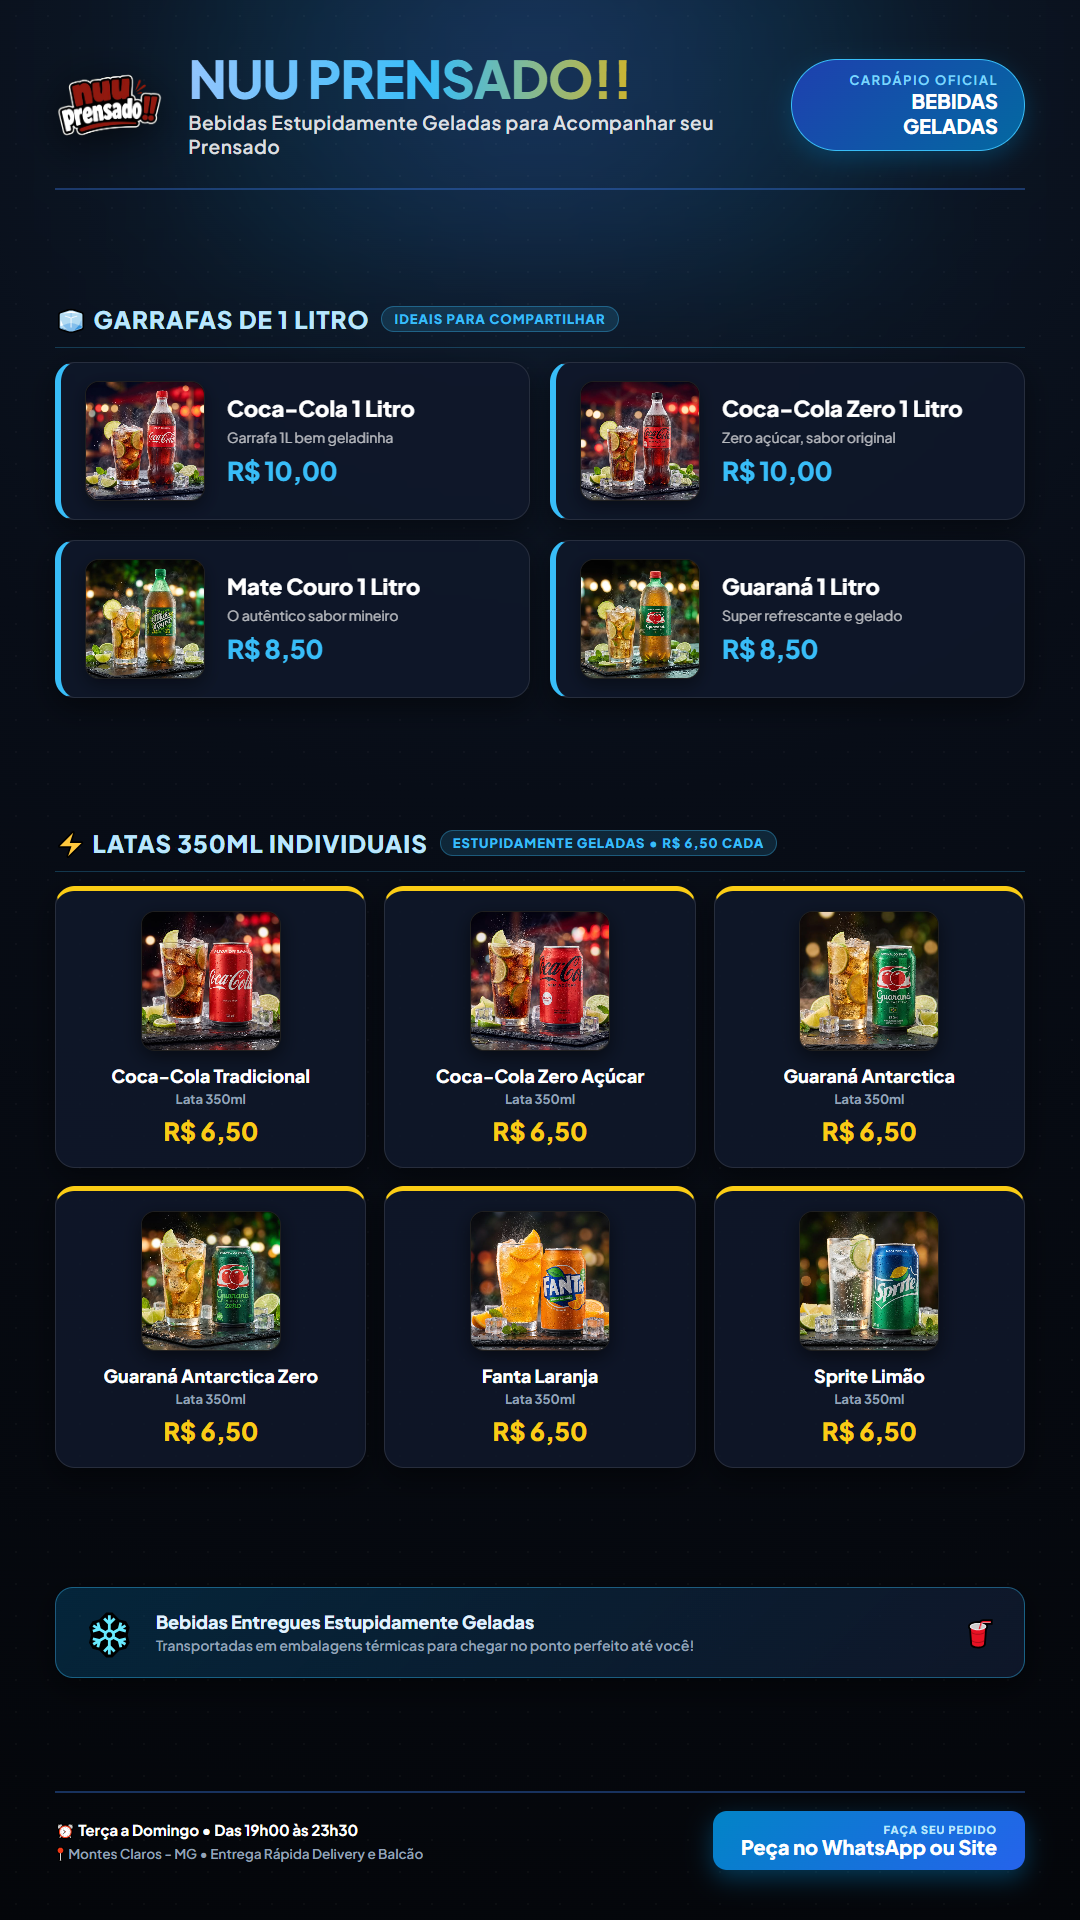
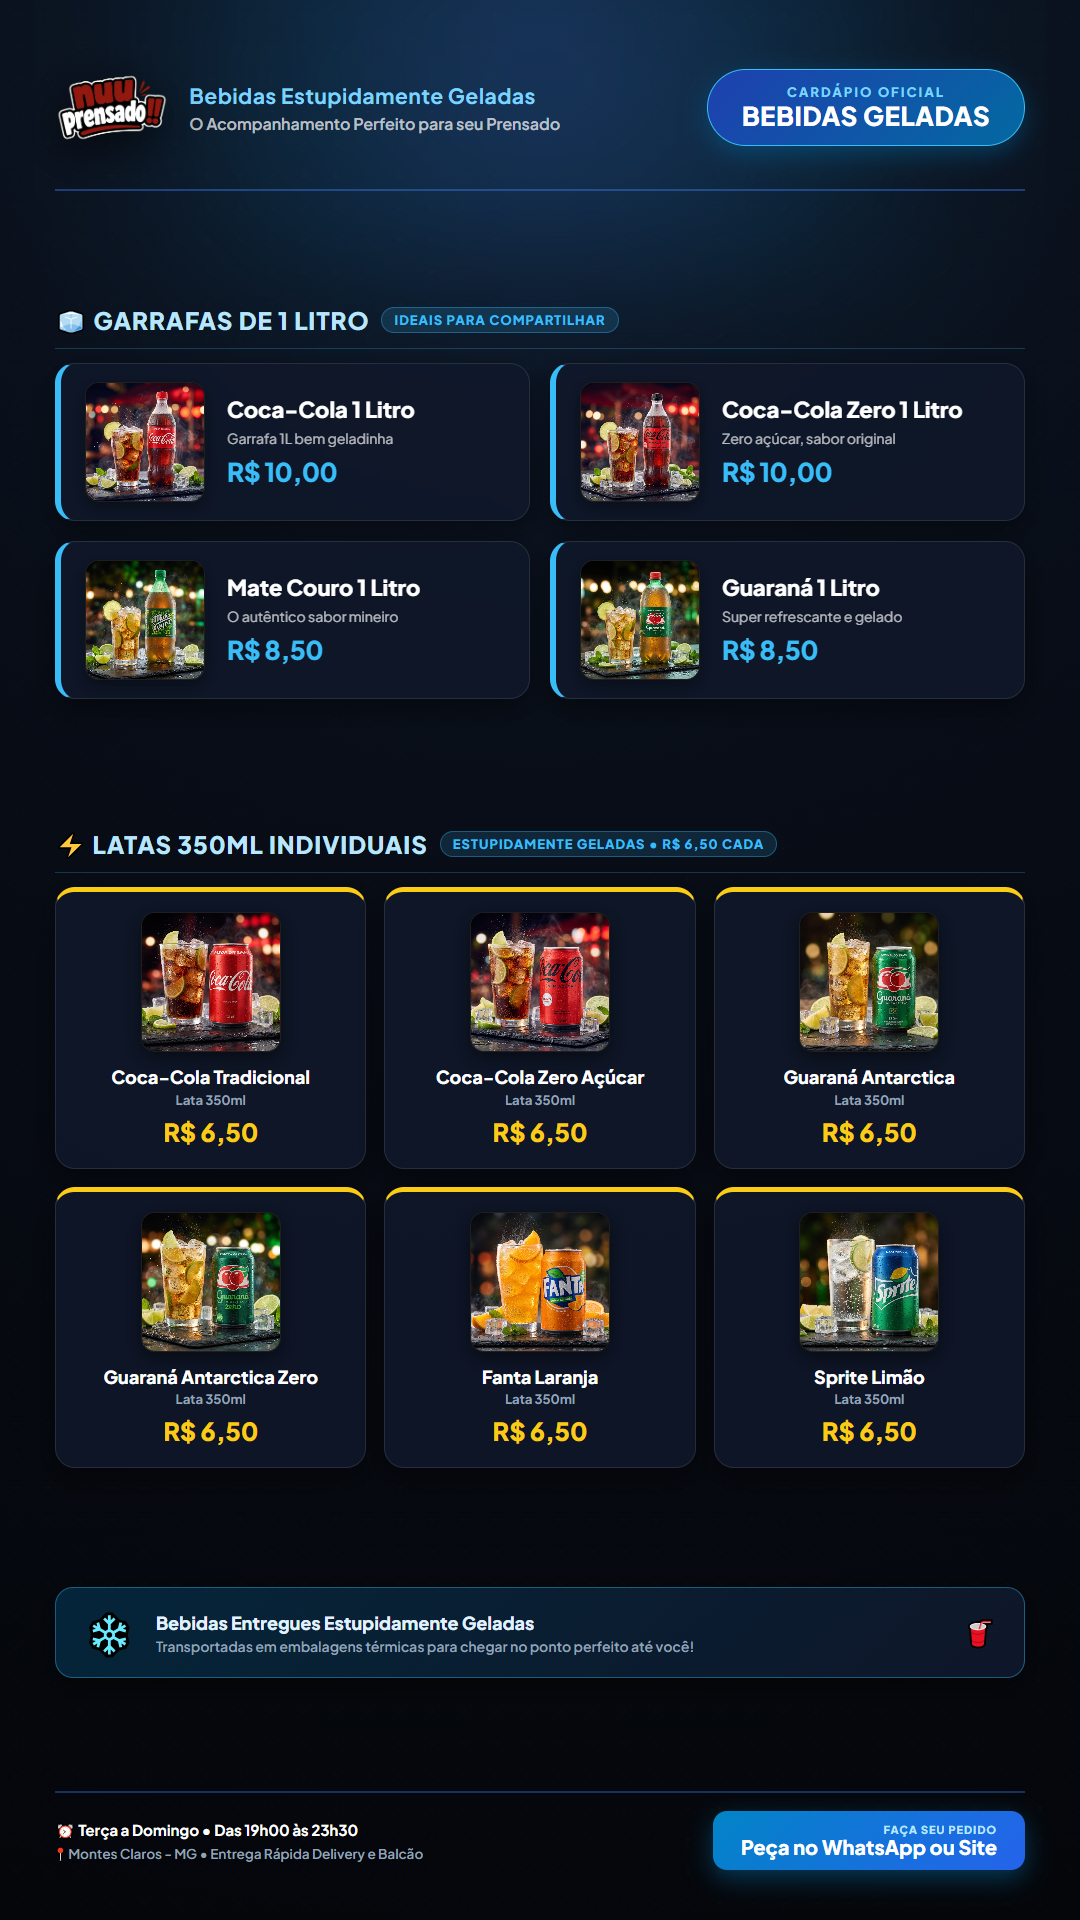
fix(cardapio): remove nome repetido da loja e mantem badges em linha unica nas imagens

diff --git a/cardapio_imagens/template_bebidas.html b/cardapio_imagens/template_bebidas.html
@@ -51,58 +51,48 @@
       display: flex;
       align-items: center;
       justify-content: space-between;
-      border-bottom: 2px solid rgba(59, 130, 246, 0.35);
-      padding-bottom: 28px;
+      border-bottom: 2px solid rgba(59, 130, 246, 0.4);
+      padding-bottom: 24px;
     }
     .header-logo-group {
       display: flex;
       align-items: center;
-      gap: 24px;
+      gap: 20px;
     }
     .header-logo {
-      width: 110px;
-      height: 110px;
+      height: 115px;
+      width: auto;
       object-fit: contain;
-      filter: drop-shadow(0 8px 20px rgba(0,0,0,0.6));
-    }
-    .header-title-box h1 {
-      font-size: 52px;
-      font-weight: 900;
-      letter-spacing: -1px;
-      line-height: 1;
-      background: linear-gradient(90deg, #93c5fd 0%, #38bdf8 40%, #eab308 80%, #f97316 100%);
-      -webkit-background-clip: text;
-      -webkit-text-fill-color: transparent;
-      text-transform: uppercase;
-    }
-    .header-title-box p {
-      font-size: 19px;
-      font-weight: 600;
-      color: rgba(255, 255, 255, 0.85);
-      margin-top: 6px;
-      letter-spacing: 0.5px;
+      filter: drop-shadow(0 10px 24px rgba(0,0,0,0.7));
     }
     .header-badge {
       background: linear-gradient(135deg, #1e40af, #0369a1);
       border: 1.5px solid #38bdf8;
-      padding: 12px 26px;
+      padding: 14px 34px;
       border-radius: 999px;
-      text-align: right;
-      box-shadow: 0 8px 24px rgba(3, 105, 161, 0.4);
+      text-align: center;
+      box-shadow: 0 8px 24px rgba(3, 105, 161, 0.45);
+      white-space: nowrap;
+      flex-shrink: 0;
     }
     .header-badge span {
       display: block;
       font-size: 13px;
       text-transform: uppercase;
-      font-weight: 700;
-      letter-spacing: 1.5px;
+      font-weight: 800;
+      letter-spacing: 2px;
       color: #7dd3fc;
+      white-space: nowrap;
+      margin-bottom: 2px;
     }
     .header-badge strong {
       display: block;
-      font-size: 20px;
+      font-size: 26px;
       font-weight: 900;
       color: #fff;
+      letter-spacing: 0.5px;
+      white-space: nowrap;
+      line-height: 1.1;
     }
 
     /* Seções de Bebidas */
@@ -349,9 +339,9 @@
   <div class="header">
     <div class="header-logo-group">
       <img src="../public/logoNuuPrensado-semfundo.png" alt="Nuu Prensado" class="header-logo">
-      <div class="header-title-box">
-        <h1>Nuu Prensado!!</h1>
-        <p>Bebidas Estupidamente Geladas para Acompanhar seu Prensado</p>
+      <div style="display: flex; flex-direction: column; gap: 4px;">
+        <span style="font-size: 21px; font-weight: 700; color: #7dd3fc; letter-spacing: 0.5px;">Bebidas Estupidamente Geladas</span>
+        <span style="font-size: 16px; font-weight: 600; color: rgba(255,255,255,0.7);">O Acompanhamento Perfeito para seu Prensado</span>
       </div>
     </div>
     <div class="header-badge">

diff --git a/cardapio_imagens/template_lanches.html b/cardapio_imagens/template_lanches.html
@@ -51,58 +51,48 @@
       display: flex;
       align-items: center;
       justify-content: space-between;
-      border-bottom: 2px solid rgba(234, 179, 8, 0.3);
-      padding-bottom: 28px;
+      border-bottom: 2px solid rgba(234, 179, 8, 0.35);
+      padding-bottom: 24px;
     }
     .header-logo-group {
       display: flex;
       align-items: center;
-      gap: 24px;
+      gap: 20px;
     }
     .header-logo {
-      width: 110px;
-      height: 110px;
+      height: 115px;
+      width: auto;
       object-fit: contain;
-      filter: drop-shadow(0 8px 20px rgba(0,0,0,0.6));
-    }
-    .header-title-box h1 {
-      font-size: 52px;
-      font-weight: 900;
-      letter-spacing: -1px;
-      line-height: 1;
-      background: linear-gradient(90deg, #fef08a 0%, #eab308 40%, #f97316 80%, #ef4444 100%);
-      -webkit-background-clip: text;
-      -webkit-text-fill-color: transparent;
-      text-transform: uppercase;
-    }
-    .header-title-box p {
-      font-size: 19px;
-      font-weight: 600;
-      color: rgba(255, 255, 255, 0.8);
-      margin-top: 6px;
-      letter-spacing: 0.5px;
+      filter: drop-shadow(0 10px 24px rgba(0,0,0,0.7));
     }
     .header-badge {
       background: linear-gradient(135deg, #b91c1c, #991b1b);
       border: 1.5px solid #ef4444;
-      padding: 12px 26px;
+      padding: 14px 32px;
       border-radius: 999px;
-      text-align: right;
-      box-shadow: 0 8px 24px rgba(185, 28, 28, 0.4);
+      text-align: center;
+      box-shadow: 0 8px 24px rgba(185, 28, 28, 0.45);
+      white-space: nowrap;
+      flex-shrink: 0;
     }
     .header-badge span {
       display: block;
       font-size: 13px;
       text-transform: uppercase;
-      font-weight: 700;
-      letter-spacing: 1.5px;
+      font-weight: 800;
+      letter-spacing: 2px;
       color: #fef08a;
+      white-space: nowrap;
+      margin-bottom: 2px;
     }
     .header-badge strong {
       display: block;
-      font-size: 20px;
+      font-size: 26px;
       font-weight: 900;
       color: #fff;
+      letter-spacing: 0.5px;
+      white-space: nowrap;
+      line-height: 1.1;
     }
 
     /* Grade de Lanches */
@@ -361,9 +351,9 @@
   <div class="header">
     <div class="header-logo-group">
       <img src="../public/logoNuuPrensado-semfundo.png" alt="Nuu Prensado" class="header-logo">
-      <div class="header-title-box">
-        <h1>Nuu Prensado!!</h1>
-        <p>O Autêntico Cachorro-Quente Prensado Artesanal</p>
+      <div style="display: flex; flex-direction: column; gap: 4px;">
+        <span style="font-size: 21px; font-weight: 700; color: #fef08a; letter-spacing: 0.5px;">O Autêntico Cachorro-Quente</span>
+        <span style="font-size: 16px; font-weight: 600; color: rgba(255,255,255,0.7);">Prensado Artesanal de Montes Claros</span>
       </div>
     </div>
     <div class="header-badge">
